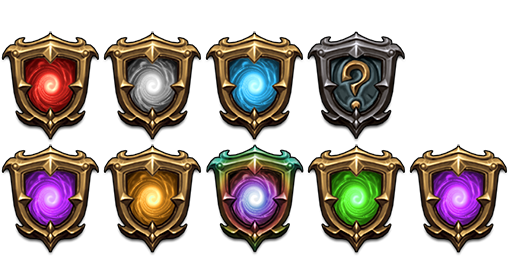
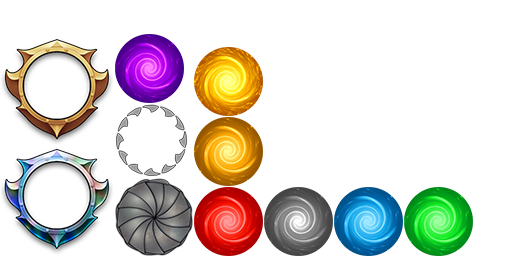
event stage ui change

diff --git a/Assets/_Scripts/View/UI/QuestSelect/EventItemView.cs b/Assets/_Scripts/View/UI/QuestSelect/EventItemView.cs
@@ -8,7 +8,6 @@ public class EventItemView : MonoBehaviour{
 	UISprite timeBg;
 
 	public List<string> stageOrderList1 = new List<string>(){
-		{"icon_stage_special"},
 		{"icon_stage_fire"},
 		{"icon_stage_water"},
 		{"icon_stage_wind"},
@@ -185,17 +184,43 @@ public class EventItemView : MonoBehaviour{
 			atlas = (o as GameObject).GetComponent<UIAtlas>();
 
 			UISprite icon = transform.FindChild("Icon/Background").GetComponent<UISprite>();
+			UISprite attr = transform.FindChild("Icon/Attr").GetComponent<UISprite>();
+			UISprite bg = transform.FindChild("Background").GetComponent<UISprite>();
 			icon.atlas = atlas;
+			attr.atlas = atlas;
+			bg.atlas = atlas;
+
+			if(data.CityId == 101){
+				bg.spriteName = "icon_event_1";
+			}else{
+				bg.spriteName = "icon_event_2";
+			}
+			TweenRotation ro = attr.GetComponent<TweenRotation>();
+			TweenRotation ro1 = icon.GetComponent<TweenRotation>();
 
 			if(state == StageState.EVENT_OPEN){
-				ShowIconAccessState(icon);
+				ShowIconAccessState(attr);
 				
 				//			string sourcePath = "Prefabs/UI/UnitItem/ArriveStagePrefab";
 				//			GameObject prefab = Resources.Load(sourcePath) as GameObject;
 				//			NGUITools.AddChild(gameObject, prefab);
+				icon.spriteName = "icon_event_a";
+				icon.width = 73;
+				icon.height = 73;
+//				attr.spriteName = data.Type;
+
+				ro.enabled = true;
+				ro.ResetToBeginning();
+				ro1.enabled = true;
+				ro1.ResetToBeginning();
+
 				UIEventListener.Get(this.gameObject).onClick = StepIntoNextScene;
 			}else if(state == StageState.EVENT_CLOSE){
-				icon.spriteName = "icon_stage_lock";
+				icon.spriteName = "icon_event_b";
+				icon.width = 78;
+				icon.height = 78;
+				ro.enabled = false;
+				ro1.enabled = false;
 				UIEventListener.Get(this.gameObject).onClick = ShowTip;
 			}
 		});
@@ -203,16 +228,10 @@ public class EventItemView : MonoBehaviour{
 	}
 
 	private void ShowIconAccessState(UISprite icon){
-		int stagePos = int.Parse(gameObject.name);
+//		int stagePos;
+//		int.TryParse(,out stagePos);
 
-		if(data.CityId == 1){
-			//first city by the order of list1
-			icon.spriteName = stageOrderList1[ stagePos ];
-		}
-		else{
-			//others by order of list2
-			icon.spriteName = stageOrderList2[ stagePos ];
-		}
+		icon.spriteName = stageOrderList1[ (int)data.ID%10 - 1 ];
 	}
 
 
